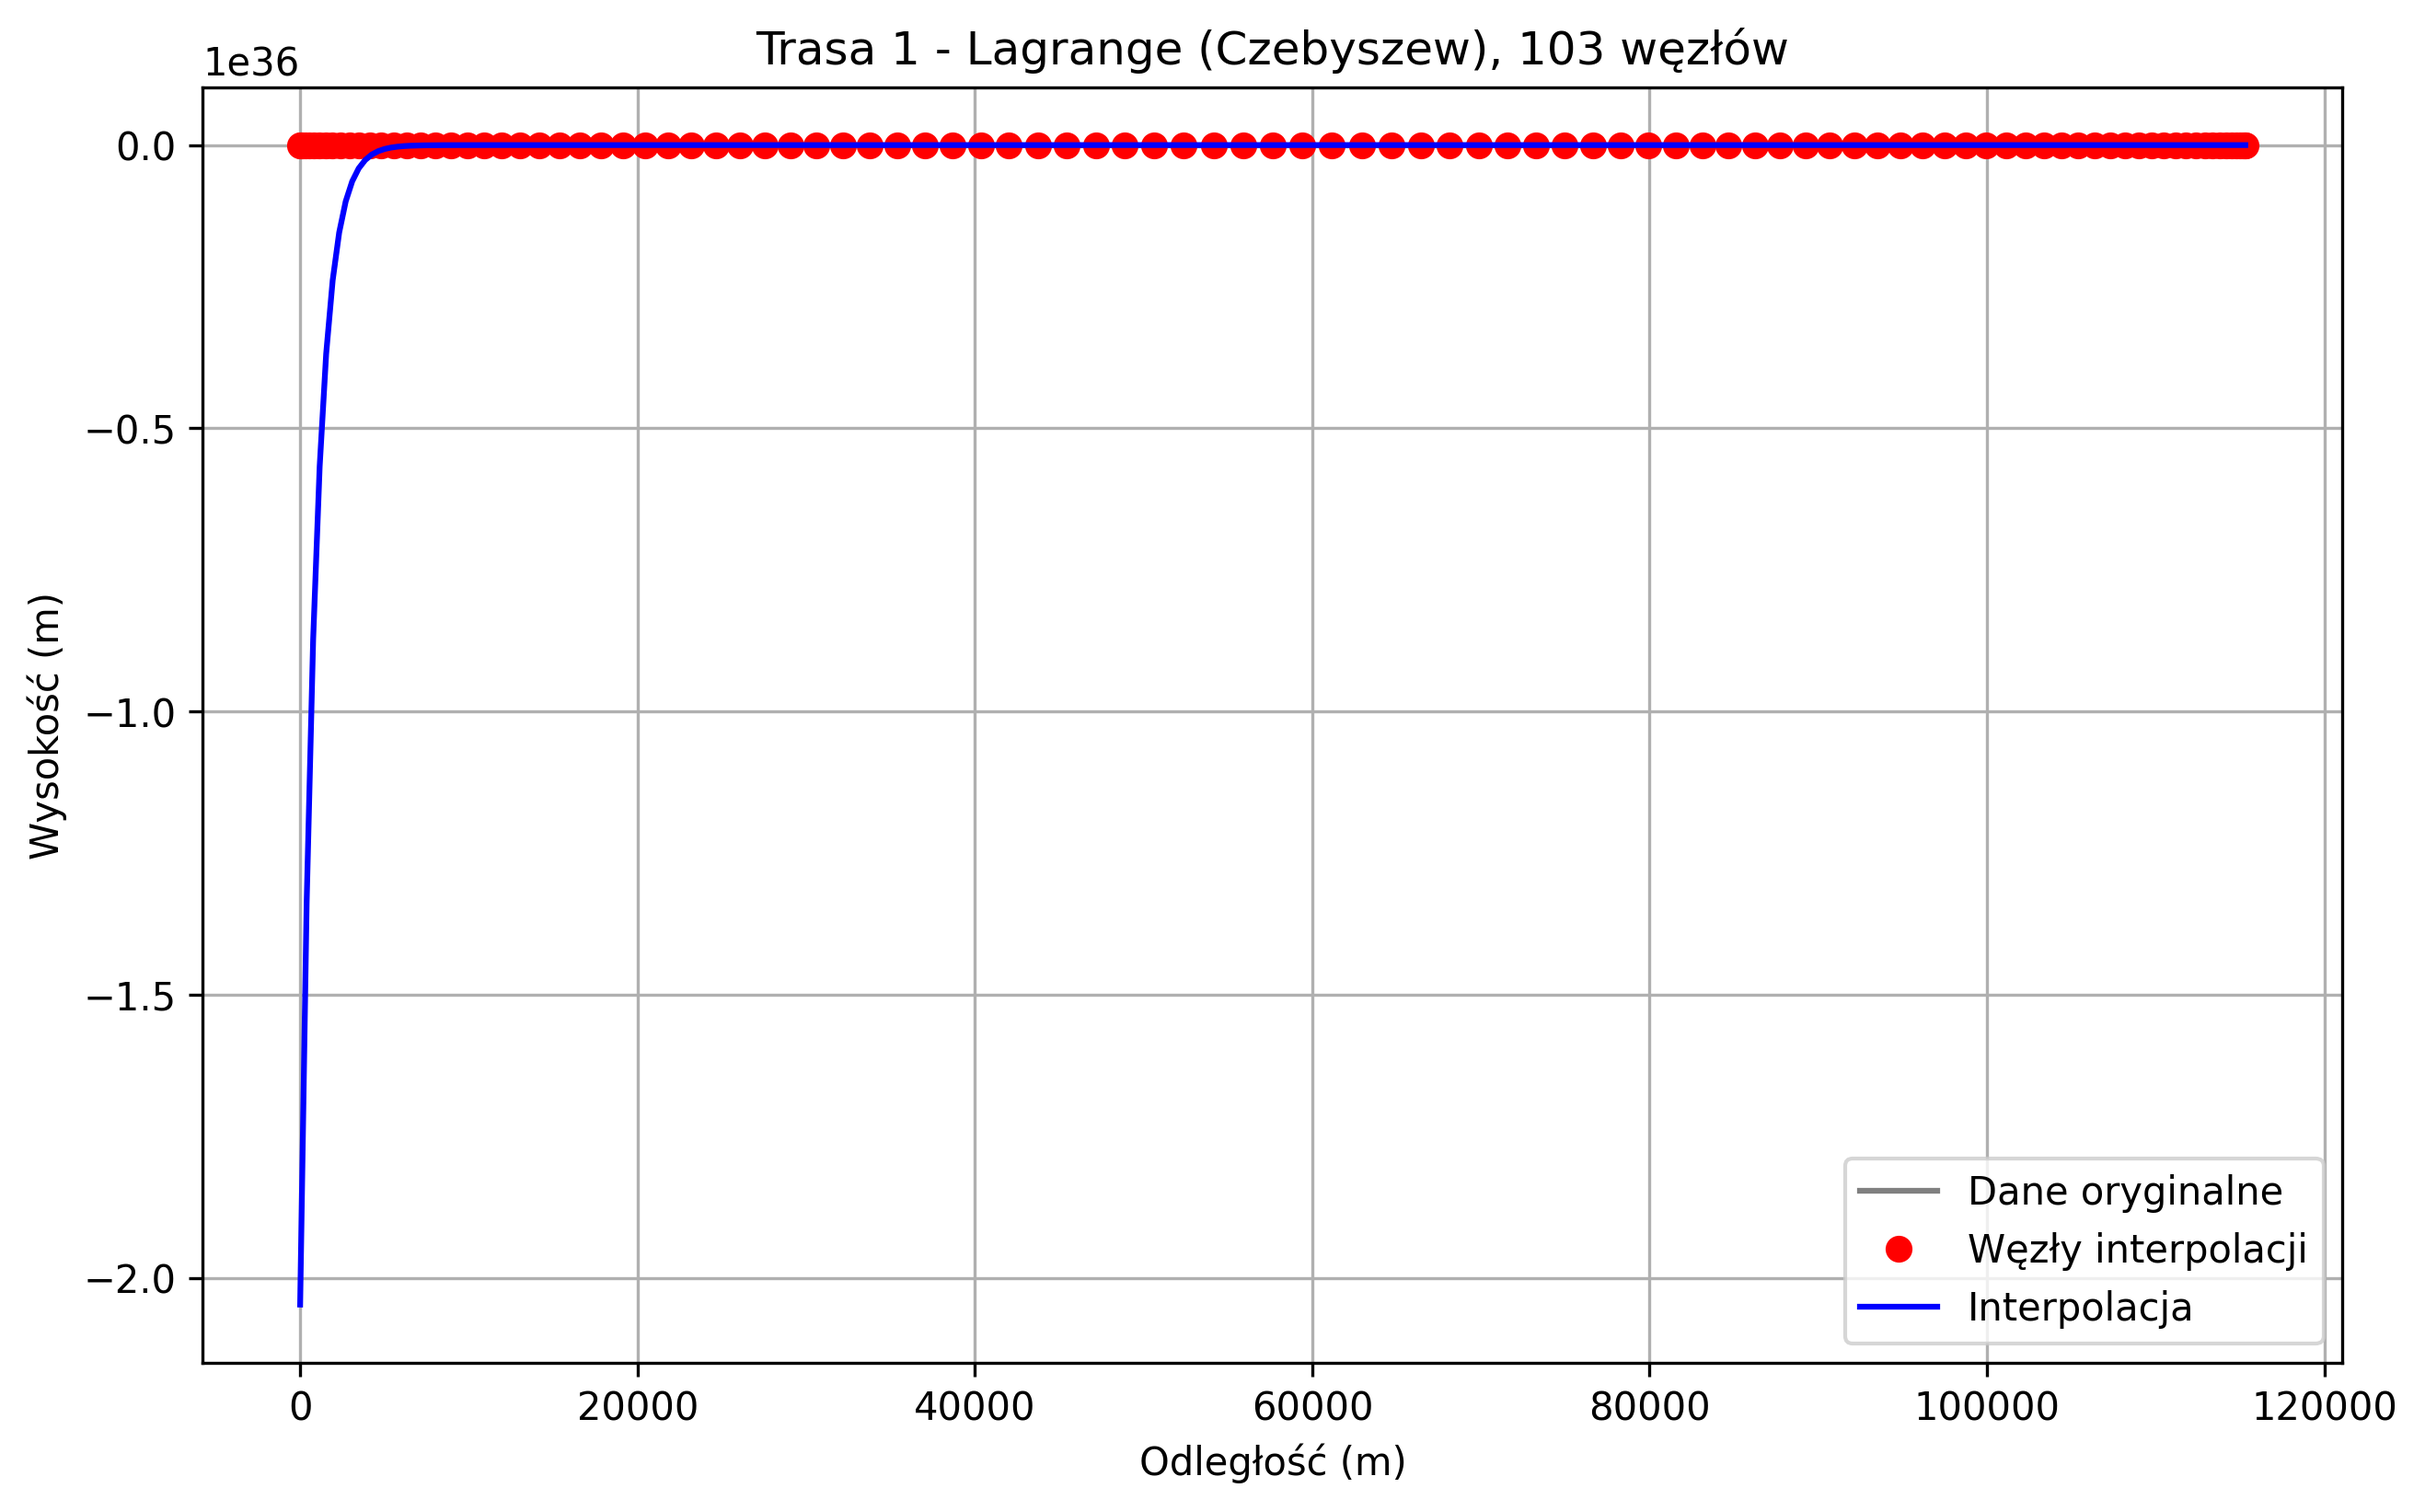
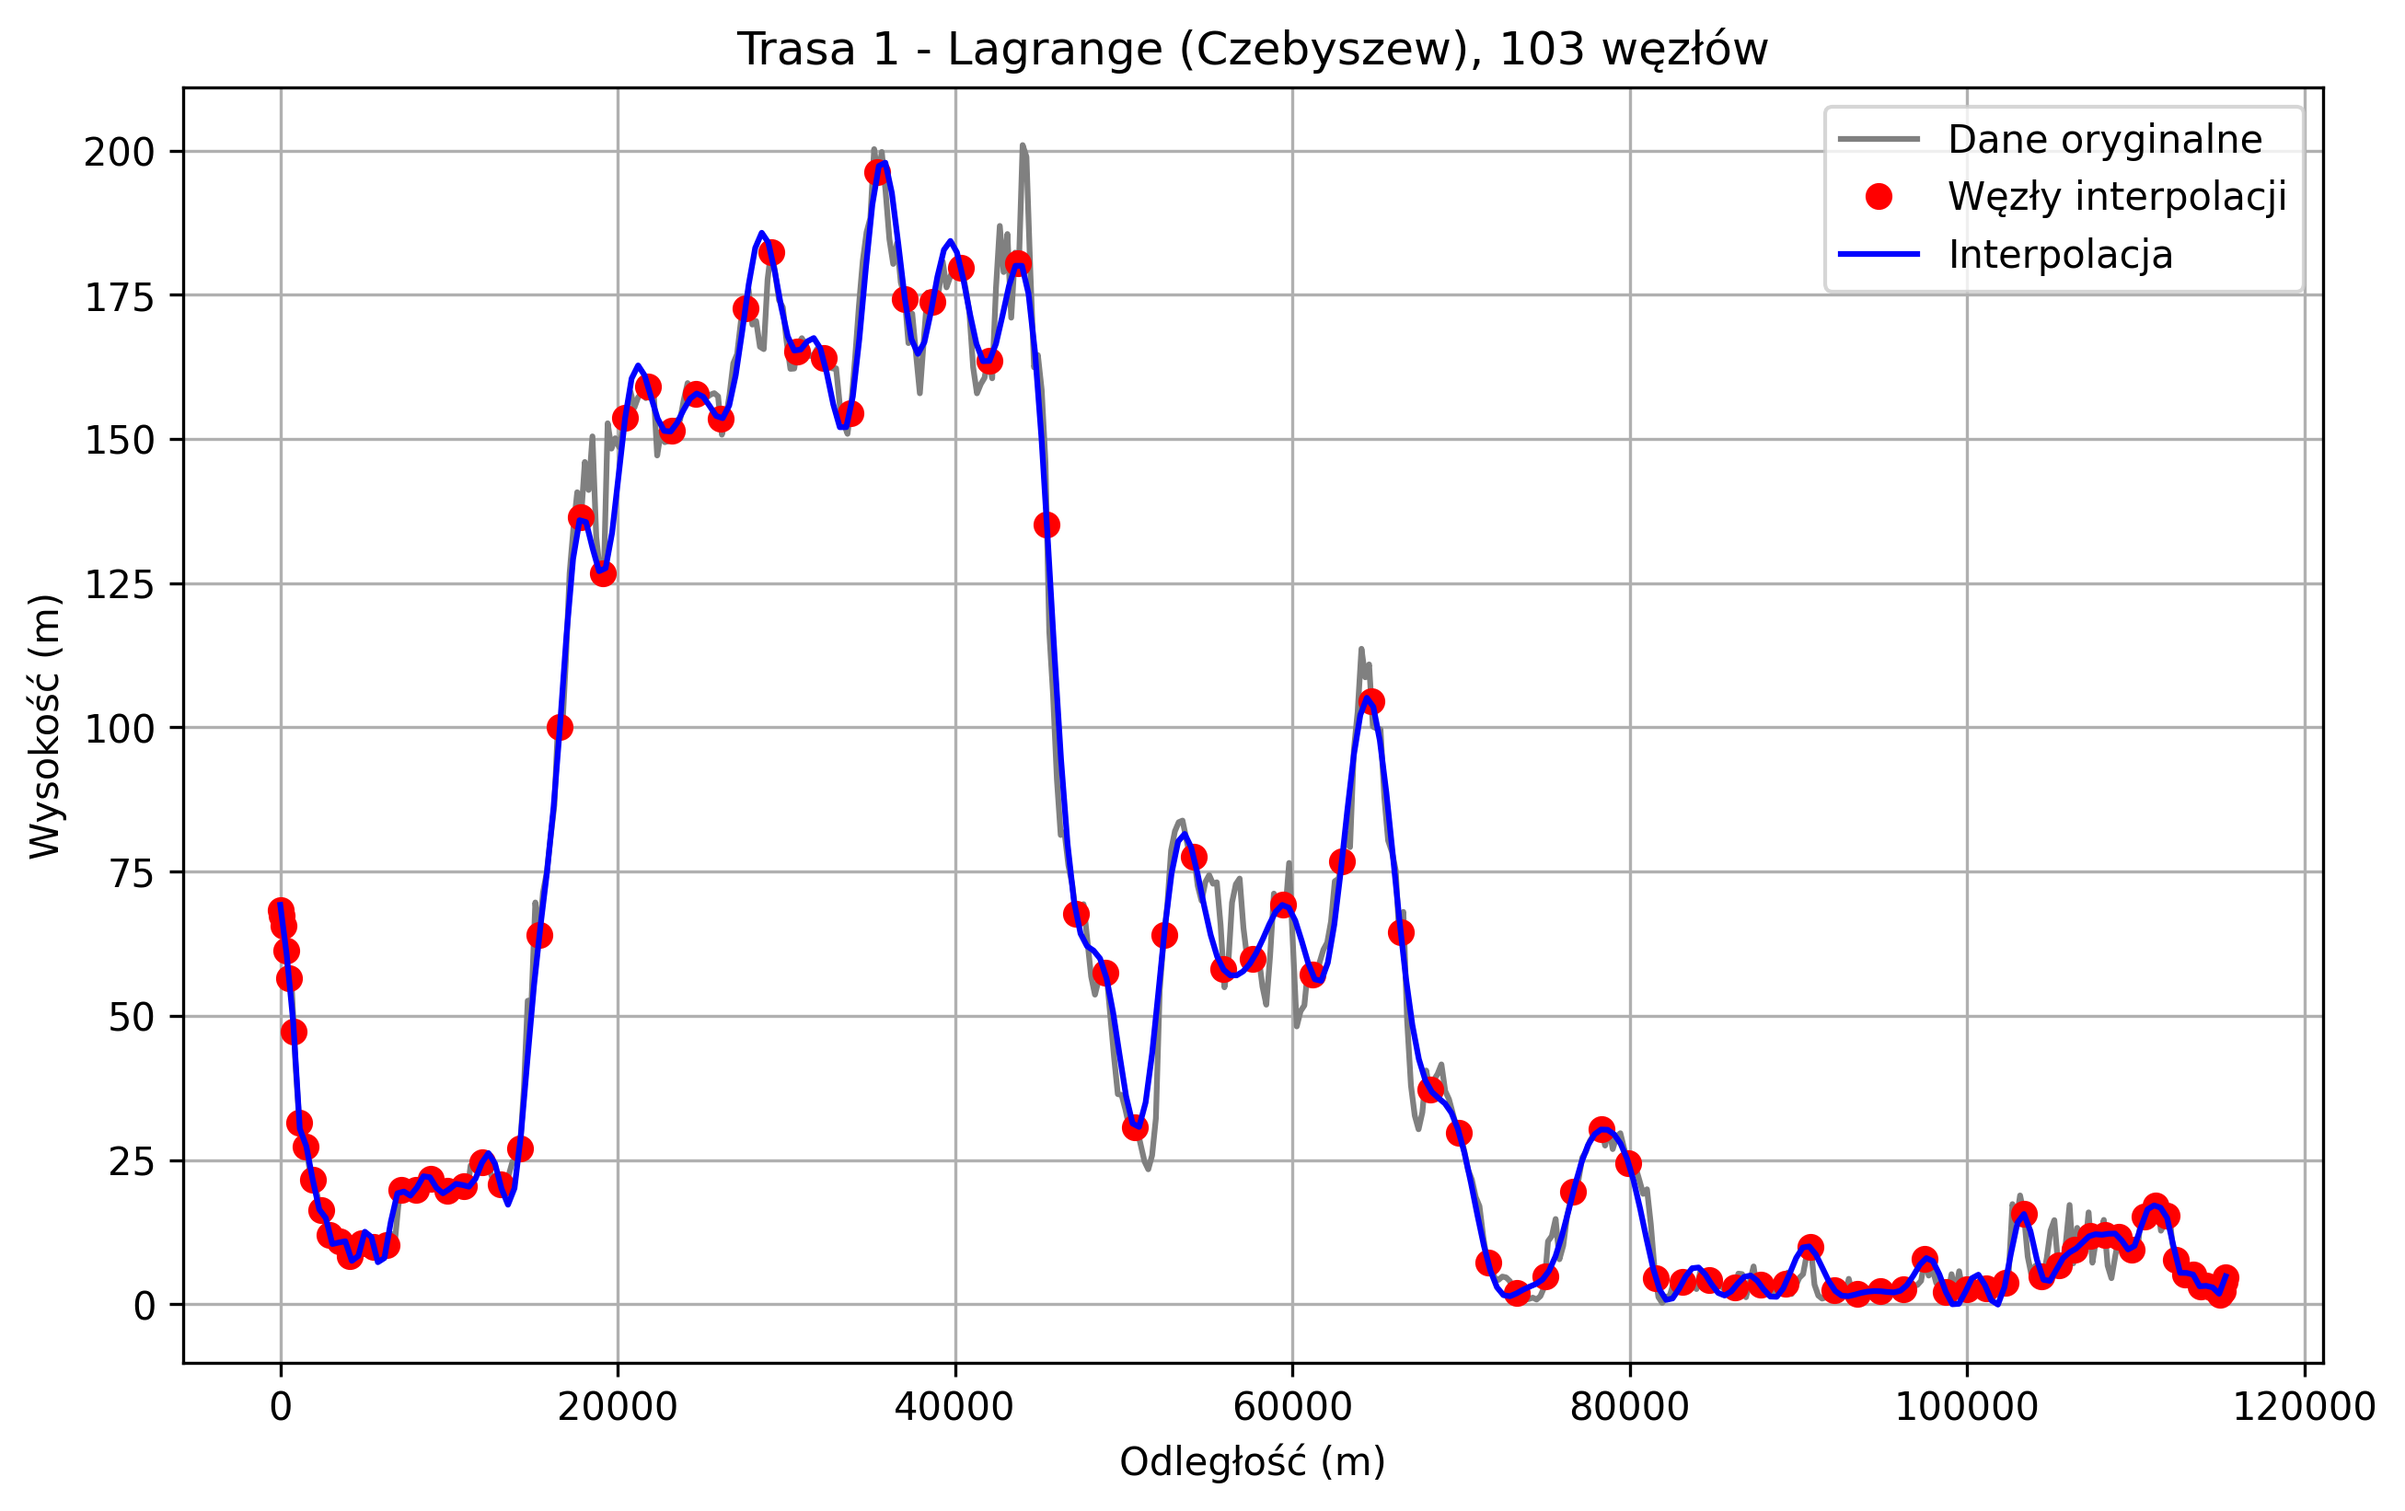
implemented spline and lagrange by self

diff --git a/aproximation.py b/aproximation.py
@@ -1,13 +1,13 @@
 import numpy as np
 import matplotlib.pyplot as plt
-from scipy.interpolate import lagrange, CubicSpline
 import pandas as pd
 import os
-# === Wczytywanie danych wysokościowych z pliku CSV ===
+
+# === Load elevation data from CSV ===
 def load_elevation_data(file_path):
     with open(file_path, 'r') as f:
         first_line = f.readline()
-    has_header = any(c.isalpha() for c in first_line)
+    has_header = any(char.isalpha() for char in first_line)
 
     if has_header:
         data = pd.read_csv(file_path)
@@ -19,46 +19,76 @@ def load_elevation_data(file_path):
 
     return data['distance'].values, data['elevation'].values
 
-
+# === Scaling functions ===
 def scale_to_unit_interval(x, a, b):
-    return 2 * (x - a) / (b - a) - 1  # do [-1, 1]
+    return 2 * (x - a) / (b - a) - 1
 
 def rescale_from_unit_interval(x_scaled, a, b):
-    return (x_scaled + 1) * (b - a) / 2 + a  # z [-1, 1] do [a, b]
+    return (x_scaled + 1) * (b - a) / 2 + a
 
+# === Manual Lagrange interpolation ===
+def interpolate_with_lagrange(x_nodes, y_nodes, x_query):
+    def lagrange_basis(k, x):
+        terms = [(x - x_nodes[j]) / (x_nodes[k] - x_nodes[j])
+                 for j in range(len(x_nodes)) if j != k]
+        return np.prod(terms, axis=0)
 
+    y_query = np.zeros_like(x_query)
+    for k in range(len(x_nodes)):
+        Lk = np.array([lagrange_basis(k, x) for x in x_query])
+        y_query += y_nodes[k] * Lk
+    return y_query
 
-# === Interpolacja Lagrange’a ===
-def interpolate_with_lagrange(distances, elevations, query_points):
-    a, b = distances[0], distances[-1]
+# === Manual natural cubic spline interpolation ===
+def interpolate_with_cubic_spline(x, y, x_query):
+    n = len(x)
+    h = np.diff(x)
+    alpha = [0] + [3/h[i]*(y[i+1]-y[i]) - 3/h[i-1]*(y[i]-y[i-1]) for i in range(1, n-1)]
 
-    # Skaluj dziedzinę
-    scaled_distances = scale_to_unit_interval(distances, a, b)
-    scaled_query = scale_to_unit_interval(query_points, a, b)
+    l = [1] + [0]*(n-1)
+    mu = [0]*(n-1) + [0]
+    z = [0]*(n)
 
-    # Interpolacja na przeskalowanej dziedzinie
-    polynomial = lagrange(scaled_distances, elevations)
-    interpolated_scaled = polynomial(scaled_query)
+    for i in range(1, n-1):
+        l_i = 2*(x[i+1]-x[i-1]) - h[i-1]*mu[i-1]
+        l.append(l_i)
+        mu[i] = h[i]/l_i
+        z[i] = (alpha[i] - h[i-1]*z[i-1]) / l_i
 
-    return interpolated_scaled
+    l.append(1)
+    z[n-1] = 0
+    c = [0]*n
+    b = [0]*(n-1)
+    d = [0]*(n-1)
+    a = list(y)
 
+    for j in reversed(range(n-1)):
+        c[j] = z[j] - mu[j]*c[j+1]
+        b[j] = (a[j+1] - a[j])/h[j] - h[j]*(c[j+1] + 2*c[j])/3
+        d[j] = (c[j+1] - c[j]) / (3*h[j])
 
-# === Interpolacja funkcjami sklejanymi (Cubic Spline) ===
-def interpolate_with_cubic_spline(distances, elevations, query_points):
-    spline = CubicSpline(distances, elevations)
-    return spline(query_points)
+    result = []
+    for xq in x_query:
+        for i in range(n - 1):
+            if x[i] <= xq <= x[i+1]:
+                dx = xq - x[i]
+                val = a[i] + b[i]*dx + c[i]*dx**2 + d[i]*dx**3
+                result.append(val)
+                break
+    return np.array(result)
 
-def chebyshev_nodes(a, b, n):
-    k = np.arange(n)
-    x_cheb = 0.5 * (a + b) + 0.5 * (b - a) * np.cos((2 * k + 1) * np.pi / (2 * n))
-    return np.sort(x_cheb)  # sortujemy rosnąco dla czytelności
+# === Chebyshev nodes ===
+def optimal_chebyshev_nodes(a, b, n):
+    return sorted([
+        0.5*(a + b) + 0.5*(b - a)*np.cos((2*k - 1)*np.pi / (2*n))
+        for k in range(1, n+1)
+    ])
 
-
-# === Wykres pojedynczej interpolacji ===
+# === Plotting ===
 def plot_single_interpolation(original_distances, original_elevations,
                               node_distances, node_elevations,
                               query_distances, interpolated_values,
-                              title='',save_path=None):
+                              title='', save_path=None):
     plt.figure(figsize=(10, 6))
     plt.plot(original_distances, original_elevations, '-', label='Dane oryginalne', color='gray')
     plt.plot(node_distances, node_elevations, 'o', label='Węzły interpolacji', color='red')
@@ -68,43 +98,35 @@ def plot_single_interpolation(original_distances, original_elevations,
     plt.title(title)
     plt.legend()
     plt.grid(True)
-    #plt.show()
-
     if save_path:
         os.makedirs(os.path.dirname(save_path), exist_ok=True)
         plt.savefig(save_path, bbox_inches='tight', dpi=300)
+    plt.close()
 
-    plt.close()  # zamiast show() – nie otwiera wykresu w o
-
-# === Wykonywanie analizy interpolacji dla różnych liczby węzłów ===
-def run_interpolation_with_varying_nodes(file_path, method='lagrange', title_prefix='', chebyshev=False, output_dir=None):
+# === Full analysis ===
+def run_interpolation_with_varying_nodes(file_path, method='lagrange', title_prefix='',
+                                         chebyshev=False, output_dir=None):
     distances, elevations = load_elevation_data(file_path)
     query_distances = np.linspace(distances[0], distances[-1], 300)
     base_name = os.path.splitext(os.path.basename(file_path))[0]
 
     for n_nodes in [5, 16, 52, 103]:
         if chebyshev:
-            node_distances = chebyshev_nodes(distances[0], distances[-1], n_nodes)
+            node_distances = optimal_chebyshev_nodes(distances[0], distances[-1], n_nodes)
             node_elevations = np.interp(node_distances, distances, elevations)
         else:
             subset_indices = np.linspace(0, len(distances) - 1, n_nodes, dtype=int)
             node_distances = distances[subset_indices]
             node_elevations = elevations[subset_indices]
 
-        # Domyślne wartości
-        interp_label = ''
-        file_suffix = ''
-
         if method == 'lagrange':
             interpolated = interpolate_with_lagrange(node_distances, node_elevations, query_distances)
             interp_label = 'Lagrange (Czebyszew)' if chebyshev else 'Lagrange (równomierne)'
             file_suffix = 'lagrange_chebyshev' if chebyshev else 'lagrange_uniform'
-
         elif method == 'spline':
             interpolated = interpolate_with_cubic_spline(node_distances, node_elevations, query_distances)
             interp_label = 'Splajn trzeciego stopnia'
             file_suffix = 'spline'
-
         else:
             raise ValueError(f"Nieznana metoda interpolacji: {method}")
 
@@ -124,8 +146,12 @@ def run_interpolation_with_varying_nodes(file_path, method='lagrange', title_pre
             save_path=save_path
         )
 
+# === Run for various settings ===
+run_interpolation_with_varying_nodes("2018_paths/SpacerniakGdansk.csv", method='lagrange',
+                                     title_prefix="Trasa 3", output_dir="plots/trasa3")
 
-run_interpolation_with_varying_nodes("2018_paths/SpacerniakGdansk.csv", method='lagrange', title_prefix="Trasa 3", output_dir="plots/trasa3")
-run_interpolation_with_varying_nodes("2018_paths/SpacerniakGdansk.csv", method='lagrange', title_prefix="Trasa 3", chebyshev=True, output_dir="plots/trasa3")
-run_interpolation_with_varying_nodes("2018_paths/SpacerniakGdansk.csv", method='spline', title_prefix="Trasa 3", output_dir="plots/trasa3")
+run_interpolation_with_varying_nodes("2018_paths/SpacerniakGdansk.csv", method='lagrange',
+                                     title_prefix="Trasa 3", chebyshev=True, output_dir="plots/trasa3")
 
+run_interpolation_with_varying_nodes("2018_paths/SpacerniakGdansk.csv", method='spline',
+                                     title_prefix="Trasa 3", output_dir="plots/trasa3")
